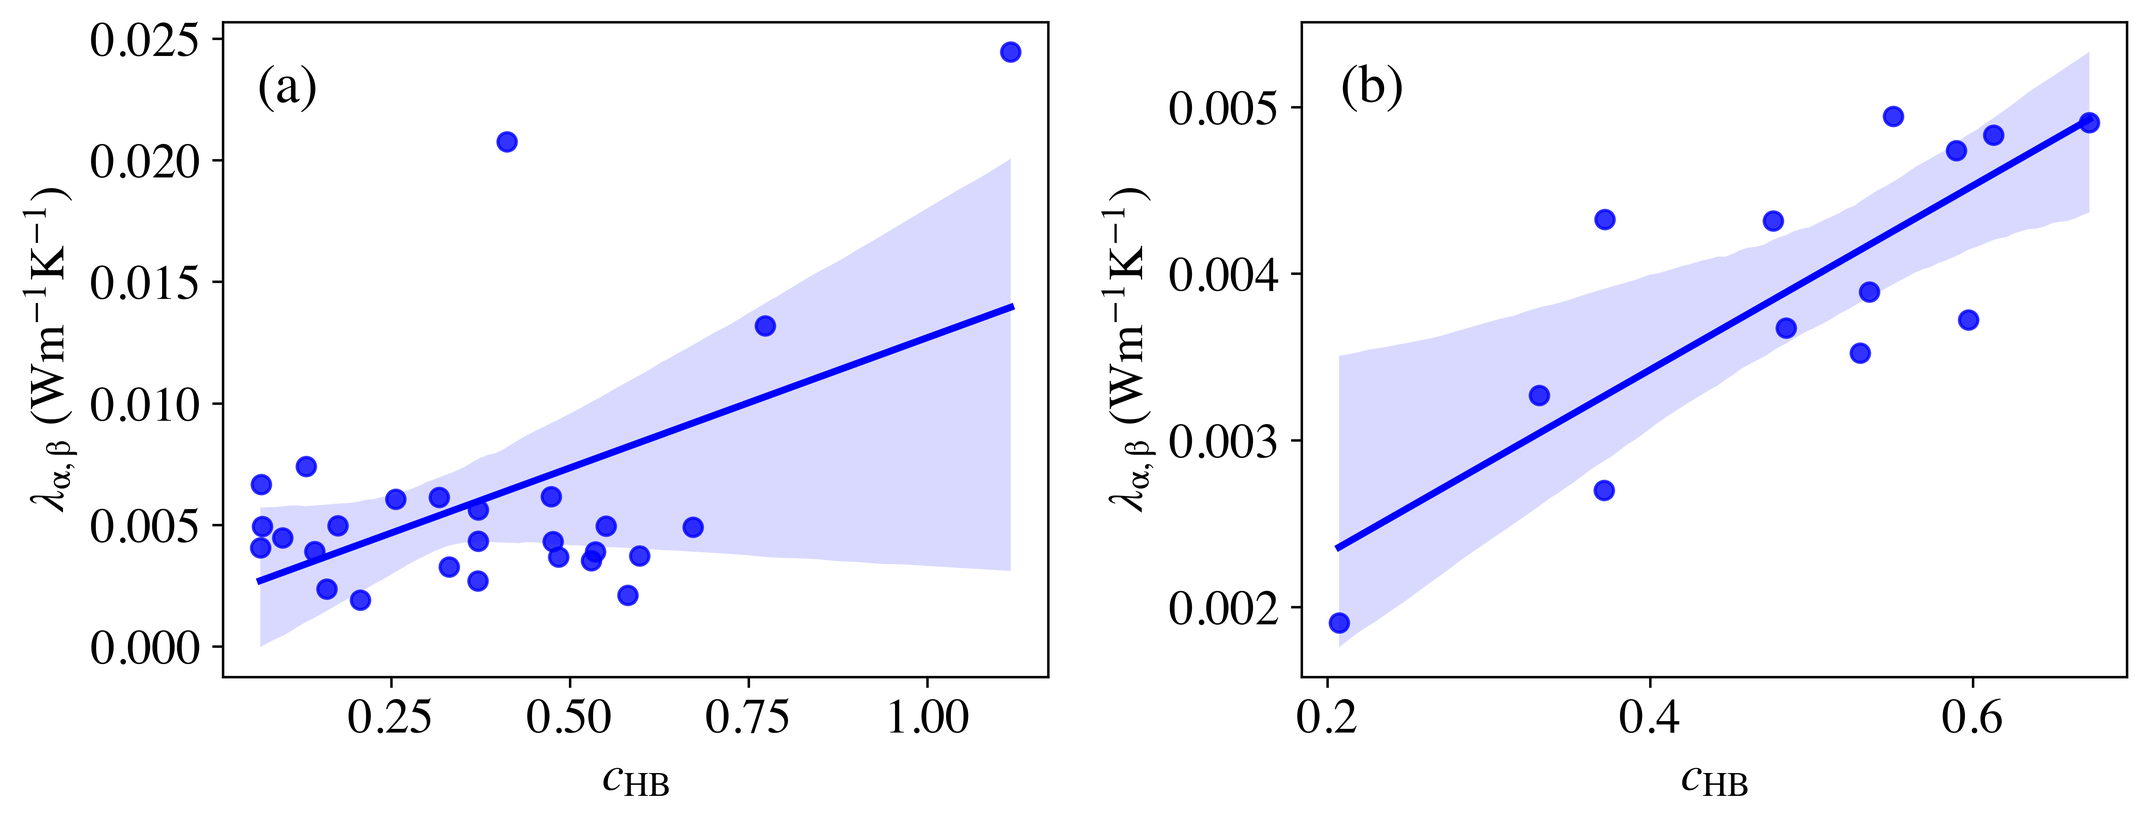
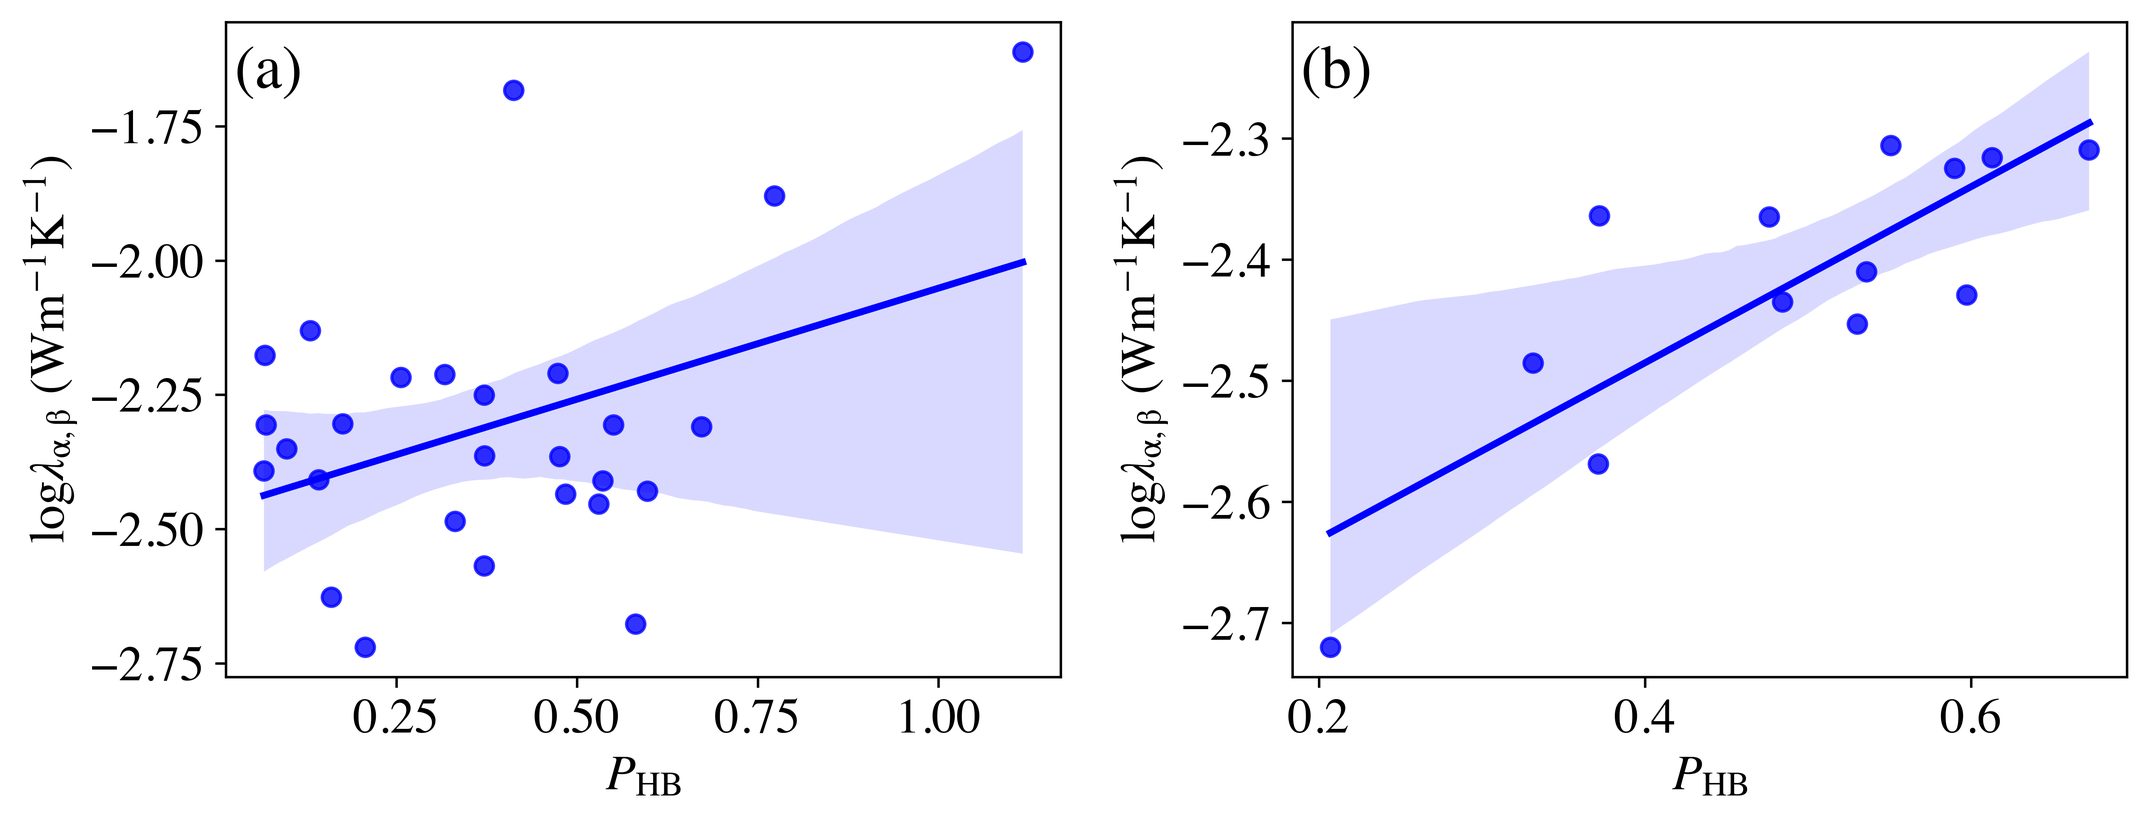
proof

diff --git a/source/12_chapter4_hp36_nonbonded.md b/source/12_chapter4_hp36_nonbonded.md
@@ -3,42 +3,19 @@
 
 # Heat and energy transfer through non-covalent contacts{#cha4}
 
-<!-- **importance of thermal and energy transport in proteins**
+## Thermal conductivity and energy conductivity
 
-Thermal energy transport is important for understanding how proteins function, interact, and respond to environmental changes.
+In previous studies, we explored the energy transport network in proteins by analyzing the _inter-residue energy conductivity_ ($G_{\alpha, \beta}$).[@ishikura2006;@leitner2010;@ishikura2015;@ota2019;@poudel2020]
+As a carrier of energy for heat, we are wondering whether there are any correlations between heat and energy transfer among different partial sites, i.e., different residues. Relating the inter-residue thermal conductivity and energy conductivity will be helpful to understand the property of heat and energy transfer in proteins.
 
-**Summary the current methods of investigating thermal energy transport process in proteins**
+![Plot of inter-residue thermal conductivity ($\lambda_{\alpha, \beta}$) and energy conductivity ($G_{\alpha, \beta}$). Residue pairs are classified by residue type of native contacts.](figures/non-bonded/lambda-energy.png){#fig:lambda_energy}
 
+From [@eq:eqd1;@eq:eqd4;@eq:eqd5;@eq:eqd7], we can see that the difference between thermal conductivity $\lambda_{\alpha, \beta}$ and energy conductivity ($G_{\alpha, \beta}$) is that for the latter its energy flow term ($\bm J_{ij}$) lacks of position vector, ($\bm r_i- \bm r_j$), which represents the distance information of the residues while MD simulations.
+To investigate this issue, we plotted the scatter dots $\lambda_{\alpha, \beta}$ and $G_{\alpha, \beta}$ in [@fig:lambda_energy] and performed the linear regression analysis.
+Interestingly, the Pearson correlation analysis showed a significant relationship statistically between $\lambda_{\alpha, \beta}$ and $G_{\alpha, \beta}$, with $r = 0.97, \, p << 0.05 \,(4.47 \times 10^{-168})$.
+To get an estimated linear regression model that can expresses their relationship, a fitted model is given here: $\log{\lambda_{\alpha, \beta}} = 0.73 \times \log{{G}_{\alpha, \beta}} - 0.30$ with $R^2 = 0.94$.
 
-However,
-
-**Summarize the debate of dominating interactions on energy transfer in protein**
-
-
-
-**What methods used in mapping native contacts based on only structure information: Protein Contact Network**
-
-**locate a gap in the research/describe the problem you will address/**
-present a prediction to be tested
-
-
-
-**Highlight the competition of thermal energy transport through native contacts and that along the chain** 
-
-**describe the present paper**
-
-In this work, we utilized the equilibrium molecular dynamics (EMD) simulations and linear response theory to investigate the inherent thermal transport properties through non-covalent contacts in HP36.
-We introduced the term _inter-residue thermal conductivity_ in Section [2](#methods) to quantify the capacity of transferring thermal energy across non-covalent contacts.
-In order to examine the influence of interaction types on inter-residue thermal conductivity, we categorized the contacts into different types based on residue-residue interactions types.
-As a special type of interaction, we quantitatively examined the role of hydrogen bonds in thermal energy transport through non-covalent contacts in proteins.
-Additionally, to explore the competition between thermal energy transport along the backbone and across non-covalent contacts, we compared the data obtained in this study with our previous studies.
-For a more comprehensive 
-
-Using this method, the contributions from backbone and contacts transfer can be easily identified and compared within the protein.
-
-\newpage -->
-
-## Interaction type dependence on heat transfer through non-covalent contacts
+## Interaction type dependence
 
 ![Histogram distribution of $\lambda_{\alpha,\beta}$ for different types of contacts in HP36 protein. The black and red lines represent the thermal conductivity of bulk water and HP36, respectively, for comparison. The $\lambda$ values of residue-wise and contacts between peptide bonded residue pairs are adopted from our previous study.[@wang2023]](figures/non-bonded/histogram-lambda-after.png){#fig:histogram_lambda}
 
@@ -64,12 +41,12 @@ This suggests that peptide bonds play a significant role in thermal transport wi
 
 ## Thermal energy transport through hydrogen bonds {#sec:role-of-hb}
 
-![$\lambda_{\alpha,\beta}$ values of contacts forming hydrogen bonds and their hydrogen bonds capacity ($c_{HB}$) during MD simulations. (a): all contacts forming hydrogen bonds; (b) contacts between residue $\alpha$ and $\alpha+4$.](figures/non-bonded/hb-capacity-lambda-all-ii4.png){#fig:hb_all_ii4}
+![$\lambda_{\alpha,\beta}$ values of contacts forming hydrogen bonds and their hydrogen bond occurrence probability (_P_~HB~) during MD simulations. (a): all contacts forming hydrogen bonds; (b) contacts between residue $\alpha$ and $\alpha+4$.](figures/non-bonded/hb-capacity-lambda-all-ii4.png){#fig:hb_all_ii4}
 
-As can be seen in [@fig:histogram_lambda] of [@sec:interaction-type-dependence-on-heat-transfer-through-non-covalent-contacts], the $\lambda_{\alpha, \beta}$ values of contacts through hydrogen bonds are generally greater than that of other non-covalent contacts.
+As can be seen in [@fig:histogram_lambda], the $\lambda_{\alpha, \beta}$ values of contacts through hydrogen bonds are generally greater than that of other non-covalent contacts.
 The hydrogen bonds are also found to facilitate the energy transport in proteins.[@mino2014;@deniz2021]
-A scatter plot between the values of $\lambda_{\alpha,\beta}$ and their hydrogen bonds capacity during the MD simulations was shown in [@fig:hb_all_ii4]a.
-The linear regression analysis revealed a Pearson correlation coefficient of $r$ = 0.51 (> 0.3) and a $**p$-value of 0.007 ($\ll$ 0.05), indicating a significant correlation between $\lambda_{\alpha,\beta}$ and hydrogen bonds capacity of residue pairs.
+A scatter plot between the values of $\lambda_{\alpha,\beta}$ and their hydrogen bond occurrence probability during the MD simulations was shown in [@fig:hb_all_ii4]a.
+The linear regression analysis revealed a Pearson correlation coefficient of $r$ = 0.51 (> 0.3) and a $**p$-value of 0.007 ($\ll$ 0.05), indicating a significant correlation between $\lambda_{\alpha,\beta}$ and hydrogen bond occurrence probability of residue pairs.
 
 In proteins constructed in an $\alpha$-helical manner, two types of hydrogen bonds can be distinguished.
 The first type, known as central hydrogen bonds, plays a key role in stabilizing the helical structure by forming hydrogen bonds between the amino group (N-H) of one amino acid and the carbonyl oxygen (O) of a second amino acid, usually occurring between residues $\alpha$ to $\alpha$+4 in the helical regions.
@@ -86,36 +63,84 @@ However, there were some residue pairs that did not form the first type of hydro
 These pairs were classified as non-helical residue pairs but formed hydrogen bonds.
 Interestingly, the $\lambda$ of non-helical residue pairs that did not have the opportunity to form hydrogen bonds was significantly lower than that of helical residue pairs.
 
-<!-- ![$\lambda_{\alpha,\beta}$ values of contacts forming hydrogen bonds and their hydrogen bonds capacity ($c_{HB}$) during MD simulations](figures/non-bonded/hb-capacity-lambda-ii4.png){#fig:hb_ii4} -->
-
 For a detailed analysis of the role of hydrogen bonds, we focus on the contacts of residue $\alpha$ and $\alpha$+4.
 In HP36, the crystal structure (PDB: 1VII) reveals the presence of three $\alpha$-helices, H1 (residues 4-8), H2 (residues 15-18), and H3 (residues 23-32), which should give rise to eight residue pairs that form the first type of hydrogen bonds.
-However, we observed some residue pairs that did not form the first type of hydrogen bonds in the crystal structure but were observed to form such bonds in MD simulations, and they were listed in Table S2.
+However, we observed some residue pairs that did not form the first type of hydrogen bonds in the crystal structure but were observed to form such bonds in MD simulations, and they were listed in  @tbl:c_hb.
 After the statistical analysis of the hydrogen bonds formation from MD trajectories, it was found that almost all hydrogen bonds of contacts between residue $\alpha$ and $\alpha$+4 were the first type, with one exception of the contact between 16SER and 20ASN, where they also formed hydrogen bonds between mainchain and sidechain.
 
-Their $\lambda_{\alpha,\alpha+4}$ values, interaction types, their $c_{HB}$ and contacts distances are listed in Table S3.
+| acceptor number | acceptor atom | donorH number | donorH atom | donor atom | _P_~HB~ | acceptor type | donor type |
+| :-------------- | :------------ | :------------ | :---------- | :--------- | :----------- | :------------ | :--------- |
+| 4               | O             | 8             | H           | N          | 0.37         | MC            | MC         |
+| 14              | O             | 18            | H           | N          | 0.58         | MC            | MC         |
+| 23              | O             | 27            | H           | N          | 0.55         | MC            | MC         |
+| 24              | O             | 28            | H           | N          | 0.48         | MC            | MC         |
+| 25              | O             | 29            | H           | N          | 0.54         | MC            | MC         |
+| 26              | O             | 30            | H           | N          | 0.48         | MC            | MC         |
+| 27              | O             | 31            | H           | N          | 0.59         | MC            | MC         |
+| 28              | O             | 32            | H           | N          | 0.61         | MC            | MC         |
+| 3               | O             | 7             | H           | N          | 0.60         | MC            | MC         |
+| 5               | O             | 9             | H           | N          | 0.21         | MC            | MC         |
+| 6               | O             | 10            | H           | N          | 0.47         | MC            | MC         |
+| 7               | O             | 11            | H           | N          | 0.67         | MC            | MC         |
+| 8               | O             | 12            | H           | N          | 0.13         | MC            | MC         |
+| 15              | O             | 19            | H           | N          | 0.53         | MC            | MC         |
+| 16              | O             | 20            | HD21        | ND2        | 0.18         | MC            | SC         |
+| 16              | O             | 20            | H           | N          | 0.07         | MC            | MC         |
+| 22              | O             | 26            | H           | N          | 0.33         | MC            | MC         |
+| 29              | O             | 33            | H           | N          | 0.37         | MC            | MC         |
+| 30              | O             | 34            | H           | N          | 0.05         | MC            | MC         |
+
+: Hydrogen bond formation capacity _P_~HB~ between residue $\alpha$ and $\alpha+4$. MC means mainchain and SC means sidechain. {#tbl:c_hb}
+
+Their $\lambda_{\alpha,\alpha+4}$ values, interaction types, their _P_~HB~ and contacts distances are listed in c_hb_ii4.
 The $\lambda_{\alpha,\beta}$ values for contacts with no hydrogen bonds are significantly lower, i.e. an order of magnitude lower, than those with hydrogen bonds.
 Two special residues pairs (2LEU-6ASP and 21LEU-25LYS) did not form hydrogen bonds but had relatively higher $\lambda_{\alpha,\beta}$ values.
 This may be because their interactions are stronger than those contacts with no hydrogen bonds, which are all hydrophobic residues with weak Van der Waals interactions.
 
-A smaller data set consisting of $\lambda_{\alpha,\alpha+4}$ and $c_{HB}$ with hydrogen bonds formed was used to fit a linear regression relationship, as shown in [@fig:hb_all_ii4]b.
+| Residue Number | Residue Name | Residue Number | Residue Name | _P_~HB~ | Interaction Type | $\lambda_{\alpha, \alpha+4}$ | Contacts Distance (\AA)|
+| :--------- | :------- | :--------- | :------- | :------- | :--------------- | :------------ |:------------ |
+| 2              | LEU          | 6              | ASP          | 0.00         | charged          | 3.29E-03                     |3.08 |
+| 21             | LEU          | 25             | LYS          | 0.00         | charged          | 2.23E-03                     |2.56|
+| 3              | SER          | 7              | PHE          | 0.60         | hydrogen bonds   | 3.72E-03                     |2.05|
+| 4              | ASP          | 8              | LYS          | 0.37         | hydrogen bonds   | 4.33E-03                     |2.19 |
+| 5              | GLU          | 9              | ALA          | 0.21         | hydrogen bonds   | 1.90E-03                     |2.32 |
+| 6              | ASP          | 10             | VAL          | 0.47         | hydrogen bonds   | 6.16E-03                     |2.10 |
+| 8              | LYS          | 12             | GLY          | 0.13         | hydrogen bonds   | 7.40E-03                     |2.34 |
+| 14             | THR          | 18             | PHE          | 0.58         | hydrogen bonds   | 2.10E-03                     |1.98 |
+| 15             | ARG          | 19             | ALA          | 0.53         | hydrogen bonds   | 3.52E-03                     |2.04 |
+| 16             | SER          | 20             | ASN          | 0.18         | hydrogen bonds   | 4.06E-03                     |2.64 |
+| 22             | PRO          | 26             | GLN          | 0.33         | hydrogen bonds   | 3.27E-03                     |2.11 |
+| 23             | LEU          | 27             | GLN          | 0.55         | hydrogen bonds   | 4.95E-03                     |1.99 |
+| 24             | TRP          | 28             | ASN          | 0.48         | hydrogen bonds   | 3.67E-03                     |2.03 |
+| 25             | LYS          | 29             | LEU          | 0.54         | hydrogen bonds   | 3.89E-03                     |2.00|
+| 26             | GLN          | 30             | LYS          | 0.48         | hydrogen bonds   | 4.32E-03                     |2.06 |
+| 27             | GLN          | 31             | LYS          | 0.59         | hydrogen bonds   | 4.74E-03                     |2.00 |
+| 28             | ASN          | 32             | GLU          | 0.61         | hydrogen bonds   | 4.83E-03                     |1.96 |
+| 29             | LEU          | 33             | LYS          | 0.37         | hydrogen bonds   | 2.70E-03                     |2.12 |
+| 30             | LYS          | 34             | GLY          | 0.05         | hydrogen bonds   | 2.23E-03                     |2.62 |
+| 1              | MET          | 5              | GLU          | 0.00         | hydrophobic      | 1.99E-04                     |8.33 |
+| 9              | ALA          | 13             | MET          | 0.00         | hydrophobic      | 4.29E-05                     |5.07 |
+| 10             | VAL          | 14             | THR          | 0.00         | hydrophobic      | 8.14E-07                     |7.83 |
+| 11             | PHE          | 15             | ARG          | 0.00         | hydrophobic      | 4.31E-05                     |6.08 |
+| 13             | MET          | 17             | ALA          | 0.00         | hydrophobic      | 2.42E-03                     |2.83 |
+| 17             | ALA          | 21             | LEU          | 0.00         | hydrophobic      | 5.66E-04                     |2.85 |
+| 18             | PHE          | 22             | PRO          | 0.00         | hydrophobic      | 1.65E-05                     |5.70 |
+| 19             | ALA          | 23             | LEU          | 0.00         | hydrophobic      | 1.95E-05                     |6.67 |
+| 31             | LYS          | 35             | LEU          | 0.00         | hydrophobic      | 2.02E-04                     |3.90 |
+| 32             | GLU          | 36             | PHE          | 0.00         | hydrophobic      | 3.46E-04                     |5.72 |
+| 7              | PHE          | 11             | PHE          | 0.67         | pi stacking      | 4.91E-03                     |1.92 |
+
+: $\lambda_{\alpha,\beta}$ values and hydrogen bond formation capacity _P_~HB~ between residue $\alpha$ and $\alpha+4$. {#tbl:c_hb_ii4}
+
+
+A smaller data set consisting of $\lambda_{\alpha,\alpha+4}$ and _P_~HB~ with hydrogen bonds formed was used to fit a linear regression relationship, as shown in [@fig:hb_all_ii4]b.
 The Pearson correlation coefficient and $p$-value are 0.80 (> 0.3) and 0.001 ($\ll$ 0.05), respectively, indicating a stronger correlation relationship than for all hydrogen bond contacts.
 The contact distance is a factor that can affect thermal transport through contacts.[@reid2018] For the data set used in [@fig:hb_all_ii4]a, their distance varied at a relatively broad range (2 - 4 Å) compared to the smaller data set used in [@fig:hb_all_ii4]b, where the distances of all contacts were 2.1 $\pm$ 0.2 Å.
 
 <!-- $\pi$ stacking: Phe7-Phe11, Phe11-Phe18, Phe7-Phe18.
 only Phe7-Phe11 has the largest $\lambda$, while Phe7-18 and Phe11-18 have a same $\lambda$ with no hydrogen bonds for them. -->
 
-## Thermal conductivity and energy conductivity
 
-In previous studies, we explored the energy transport network in proteins by analyzing the _inter-residue energy conductivity_ ($G_{\alpha, \beta}$).[@ishikura2006;@leitner2010;@ishikura2015;@ota2019;@poudel2020]
-As a carrier of energy for heat, we are wondering whether there are any correlations between heat and energy transfer among different partial sites, i.e., different residues. Relating the inter-residue thermal conductivity and energy conductivity will be helpful to understand the property of heat and energy transfer in proteins.
-
-![Plot of inter-residue thermal conductivity ($\lambda_{\alpha, \beta}$) and energy conductivity ($G_{\alpha, \beta}$). Residue pairs are classified by residue type of native contacts.](figures/non-bonded/lambda-energy.png){#fig:lambda_energy}
-
-From [@eq:eqd1;@eq:eqd4;@eq:eqd5; and @eq:eqd7], we can see that the difference between thermal conductivity $\lambda_{\alpha, \beta}$ and energy conductivity ($G_{\alpha, \beta}$) is that for the latter its energy flow term ($\bm J_{ij}$) lacks of position vector, ($\bm r_i- \bm r_j$), which represents the distance information of the residues while MD simulations.
-To investigate this issue, we plotted the scatter dots $\lambda_{\alpha, \beta}$ and $G_{\alpha, \beta}$ in [@fig:lambda_energy] and performed the linear regression analysis.
-Interestingly, the Pearson correlation analysis showed a significant relationship statistically between $\lambda_{\alpha, \beta}$ and $G_{\alpha, \beta}$, with $r = 0.97, \, p << 0.05 \,(4.47 \times 10^{-168})$.
-To get an estimated linear regression model that can expresses their relationship, a fitted model is given here: $\log{\lambda_{\alpha, \beta}} = 0.73 \times \log{{G}_{\alpha, \beta}} - 0.30$ with $R^2 = 0.94$.
 
 ## Important features on thermal transport through non-covalent contacts
 <!-- ## Random Forest Analysis -->
@@ -126,7 +151,7 @@ To get an estimated linear regression model that can expresses their relationshi
 
 To get a better understanding of the contributions of these features to the thermal transport properties of contacts in protein,
 we applied the random forest regression model to predict the log$\lambda_{\alpha,\beta}$ values with seven features as predictors.
-The comparison of calculated and predicted log$\lambda_{\alpha,\beta}$ together with the feature importances are shown in @fig:random-forest (dataset S) and @fig:random-forest-L (dataset L).
+The comparison of calculated and predicted log$\lambda_{\alpha,\beta}$ together with the feature importances are shown in @fig:random-forest-S (dataset S) and @fig:random-forest-L (dataset L).
 The model of _dataset L_ resulted in $r^2$ values of 0.95 and 0.89 for training set and testing set, and the corresponding RMSE were 0.24 and 0.4, respectively.
 Only the contact distance exhibited the considering contributions to the log$\lambda_{\alpha,\beta}$ among all the feature variables.
 The model of _dataset S_ resulted in $r^2$ values of 0.89 and 0.75 for traning set and testing set, and the corresponding RMSE were 0.10 and 0.18, respectively.
@@ -137,9 +162,9 @@ On the other hand, for short-distance contacts ($\langle d_c\rangle$ < 4 $\AA$),
 This observation aligns with the notion that the energy transport of hydrogen bonding contact is inversely proportional to the variance of the contact.
 The motion of these contacts can be modeled as a harmonic oscillator.[@buchenberg2016]
 Due to the limited numbers of data points, a further smaller dataset ($\langle d_c\rangle$ < 2.8 $\AA$) resulted in a model with very poor prediction performance.
-If we take a look at the heat current expression in @eq:eq1, we can find that two terms, i.e. (${\bm{r}_i}-{\bm{r}_j}$) and $\bm{F}_{ij}$, are closely associated with the contact distance.
+If we take a look at the heat current expression in @eq:eqc1, we can find that two terms, i.e. (${\bm{r}_i}-{\bm{r}_j}$) and $\bm{F}_{ij}$, are closely associated with the contact distance.
 While as the contact distance decreases, there is an increase in the proportion of hydrogen bonding contacts.
-Consequently, the importance of both $\langle \delta d_c^2 \rangle$ and ($P{HB}$ becomes more pronounced.
+Consequently, the importance of both $\langle \delta d_c^2 \rangle$ and ($P_{HB}$ becomes more pronounced.
 Moreover, a pairwise correlation analysis of all features and $\lambda_{\alpha,\beta}$ values was performed and their Pearson correlation coefficients were shown in @fig:rf-correlation-heatmap.
 
 ![Correlation map. (a) Pairwise Pearson correlation coefficients, $r$; (b) $p$-values.](figures/non-bonded/rf-correlation-heatmap.png){#fig:rf-correlation-heatmap}

diff --git a/source/13_chapter5_fixl.md b/source/13_chapter5_fixl.md
@@ -267,7 +267,7 @@ and the relative difference (rΔ*G*) of the *G*-values for residue pairs
 in native contact between met-FixLH (*G*~met~) and met-FixLH-imd
 (*G*~imd~), where Δ*G* = *G*~imd~ -- *G*~met~ and rΔ*G* = Δ*G* /
 *G*~met~. In @fig:difference A, we illustrated the reorganization of the network
-of vibrational energy transfer pathways (see also Table S4), where those
+of vibrational energy transfer pathways, where those
 with increased *G*, shown in red, are distinguished from those with
 decreased *G*, shown in blue. Ligand binding to the heme weakened
 (enhanced) the interaction between heme with HIS214 (HIS200, TYR203,

diff --git a/source/10_chapter2_methods.md b/source/10_chapter2_methods.md
@@ -415,7 +415,7 @@ The atomistic representation of the instantaneous  energy flow ($\bm{J}$) betwee
 $$
 \bm{J_{ij}} = \frac{1}{2} (\bm{v}_i \cdot {\bm{F}_{ij}} - {\bm{v}_j} \cdot \bm{F}_{ji}) = \frac{1}{2} {\bm{F}_{ij}} \cdot ({\bm{v}_i + \bm{v}_j})
 $$
-{#eq:eq5}
+{#eq:eqd5}
 <!-- prettier-ignore-end -->
 
 where $\bm{J_{ij}}$ is the inter-atom energy flow between atom i and atom j.
